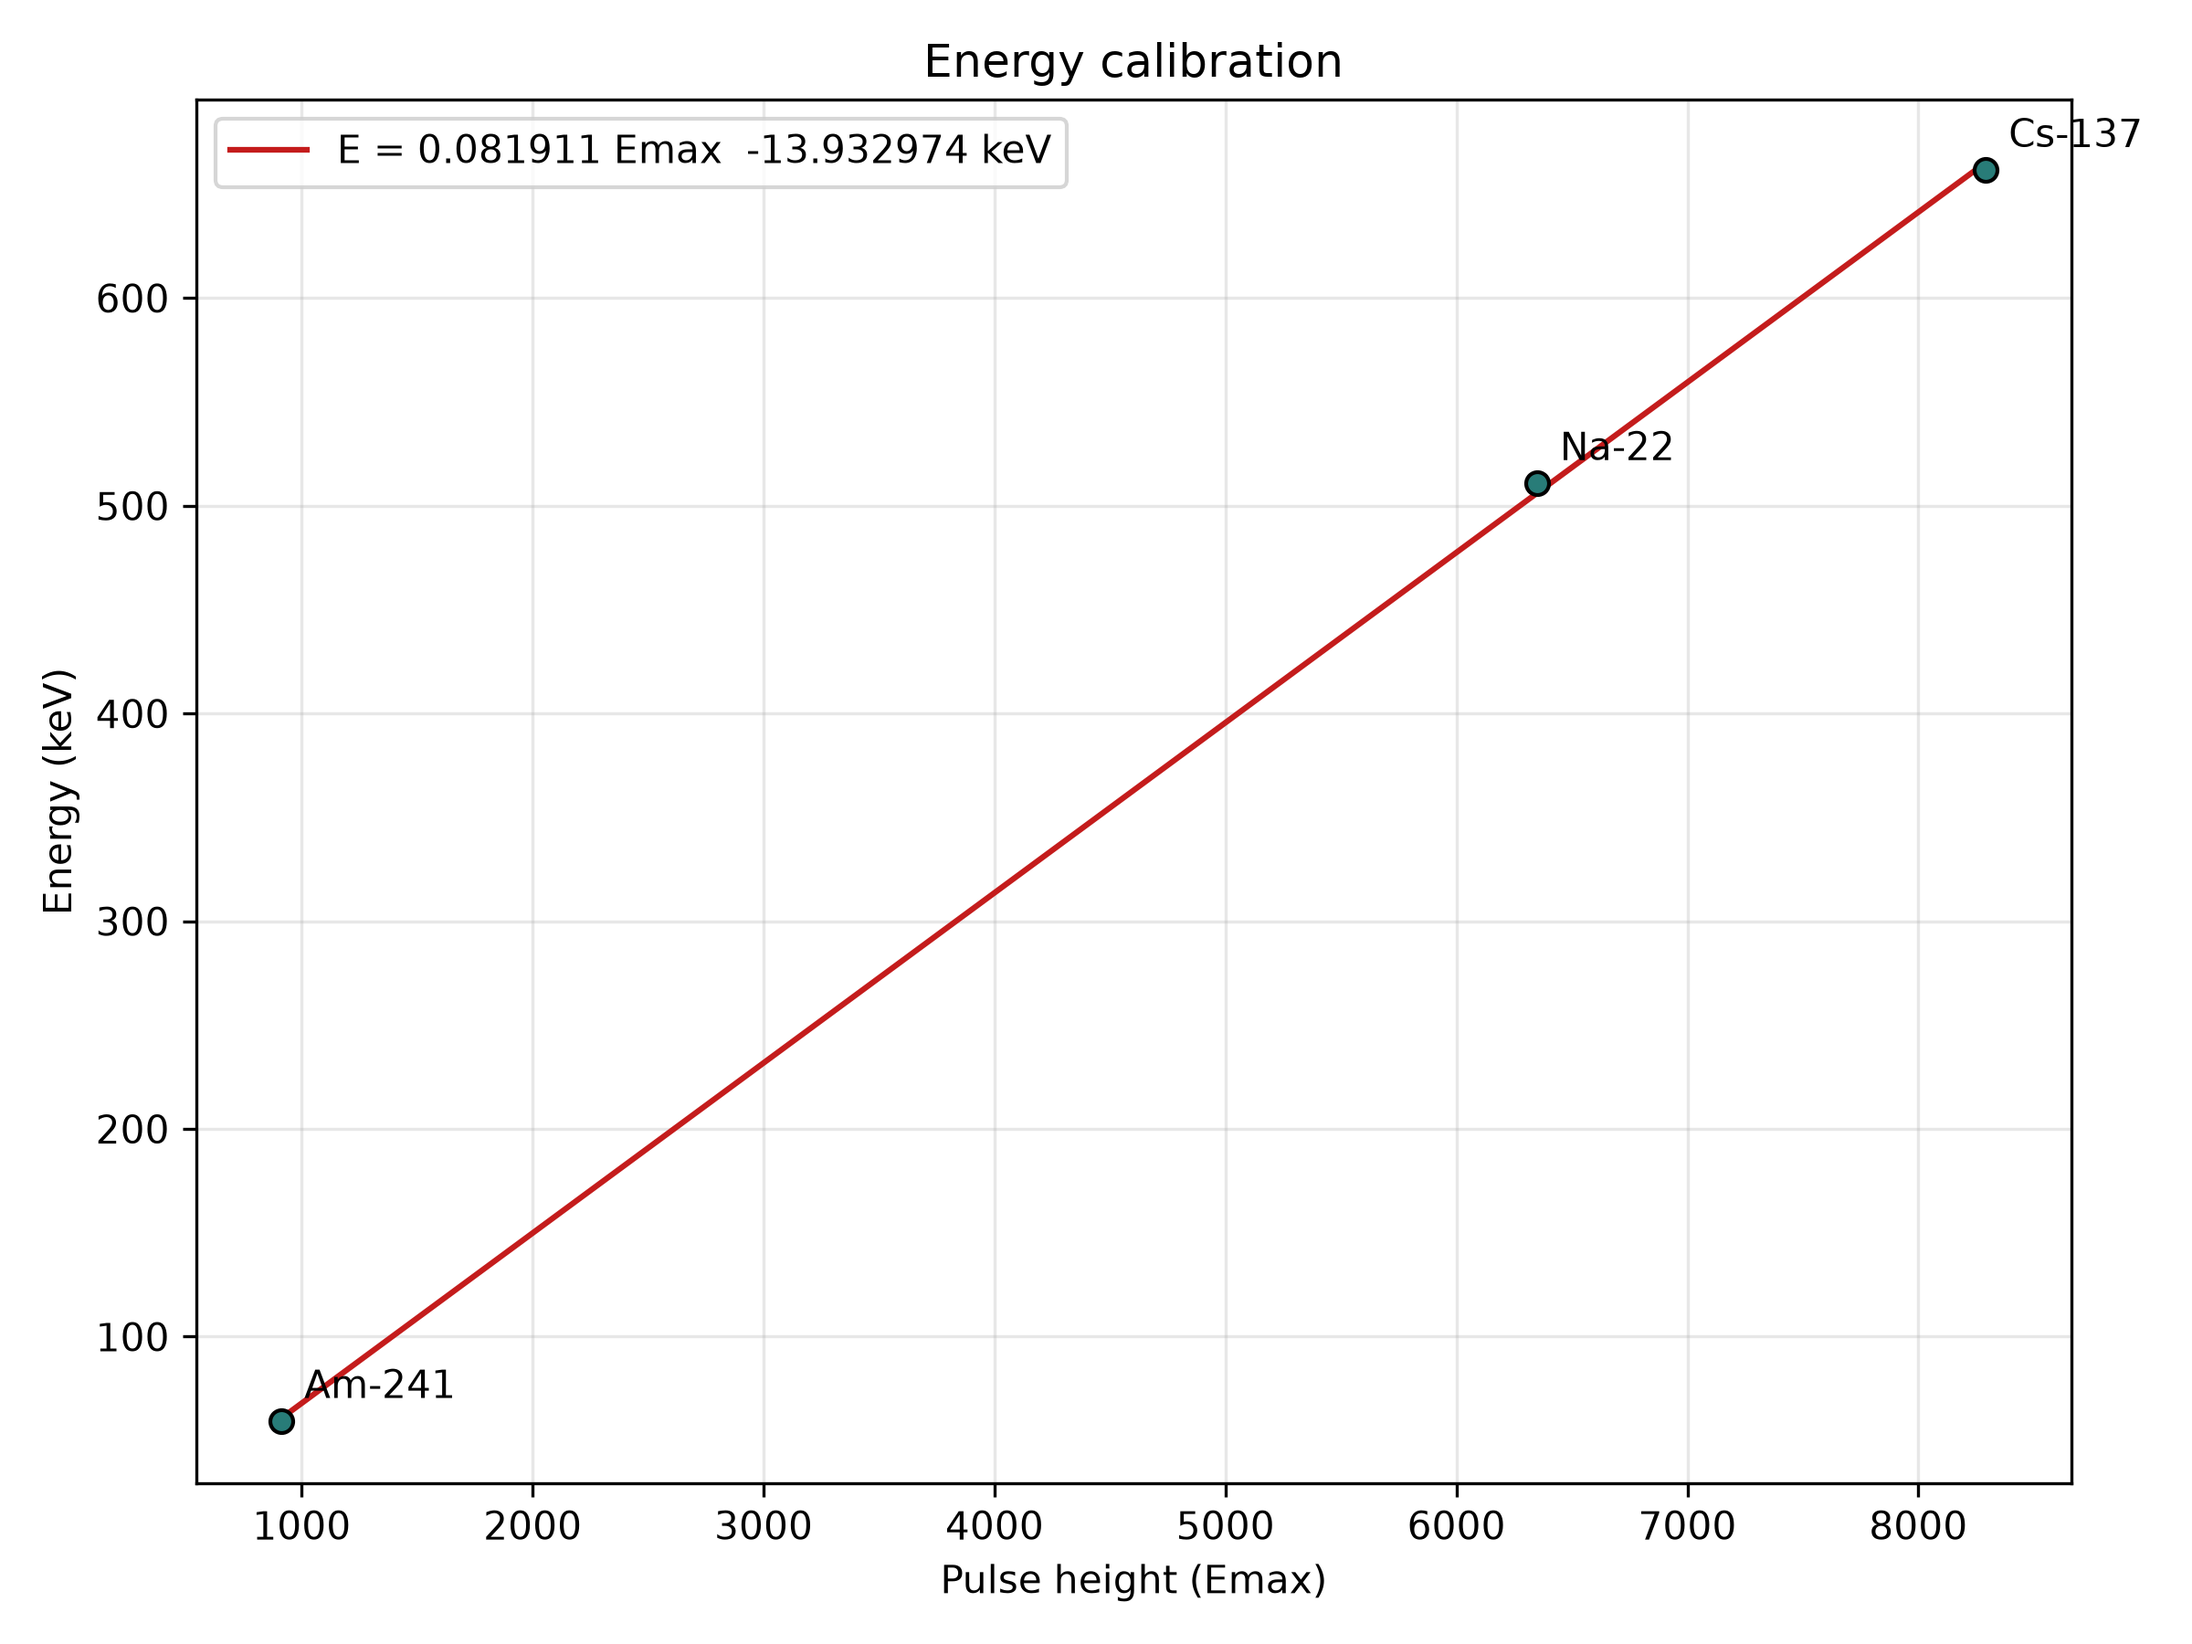
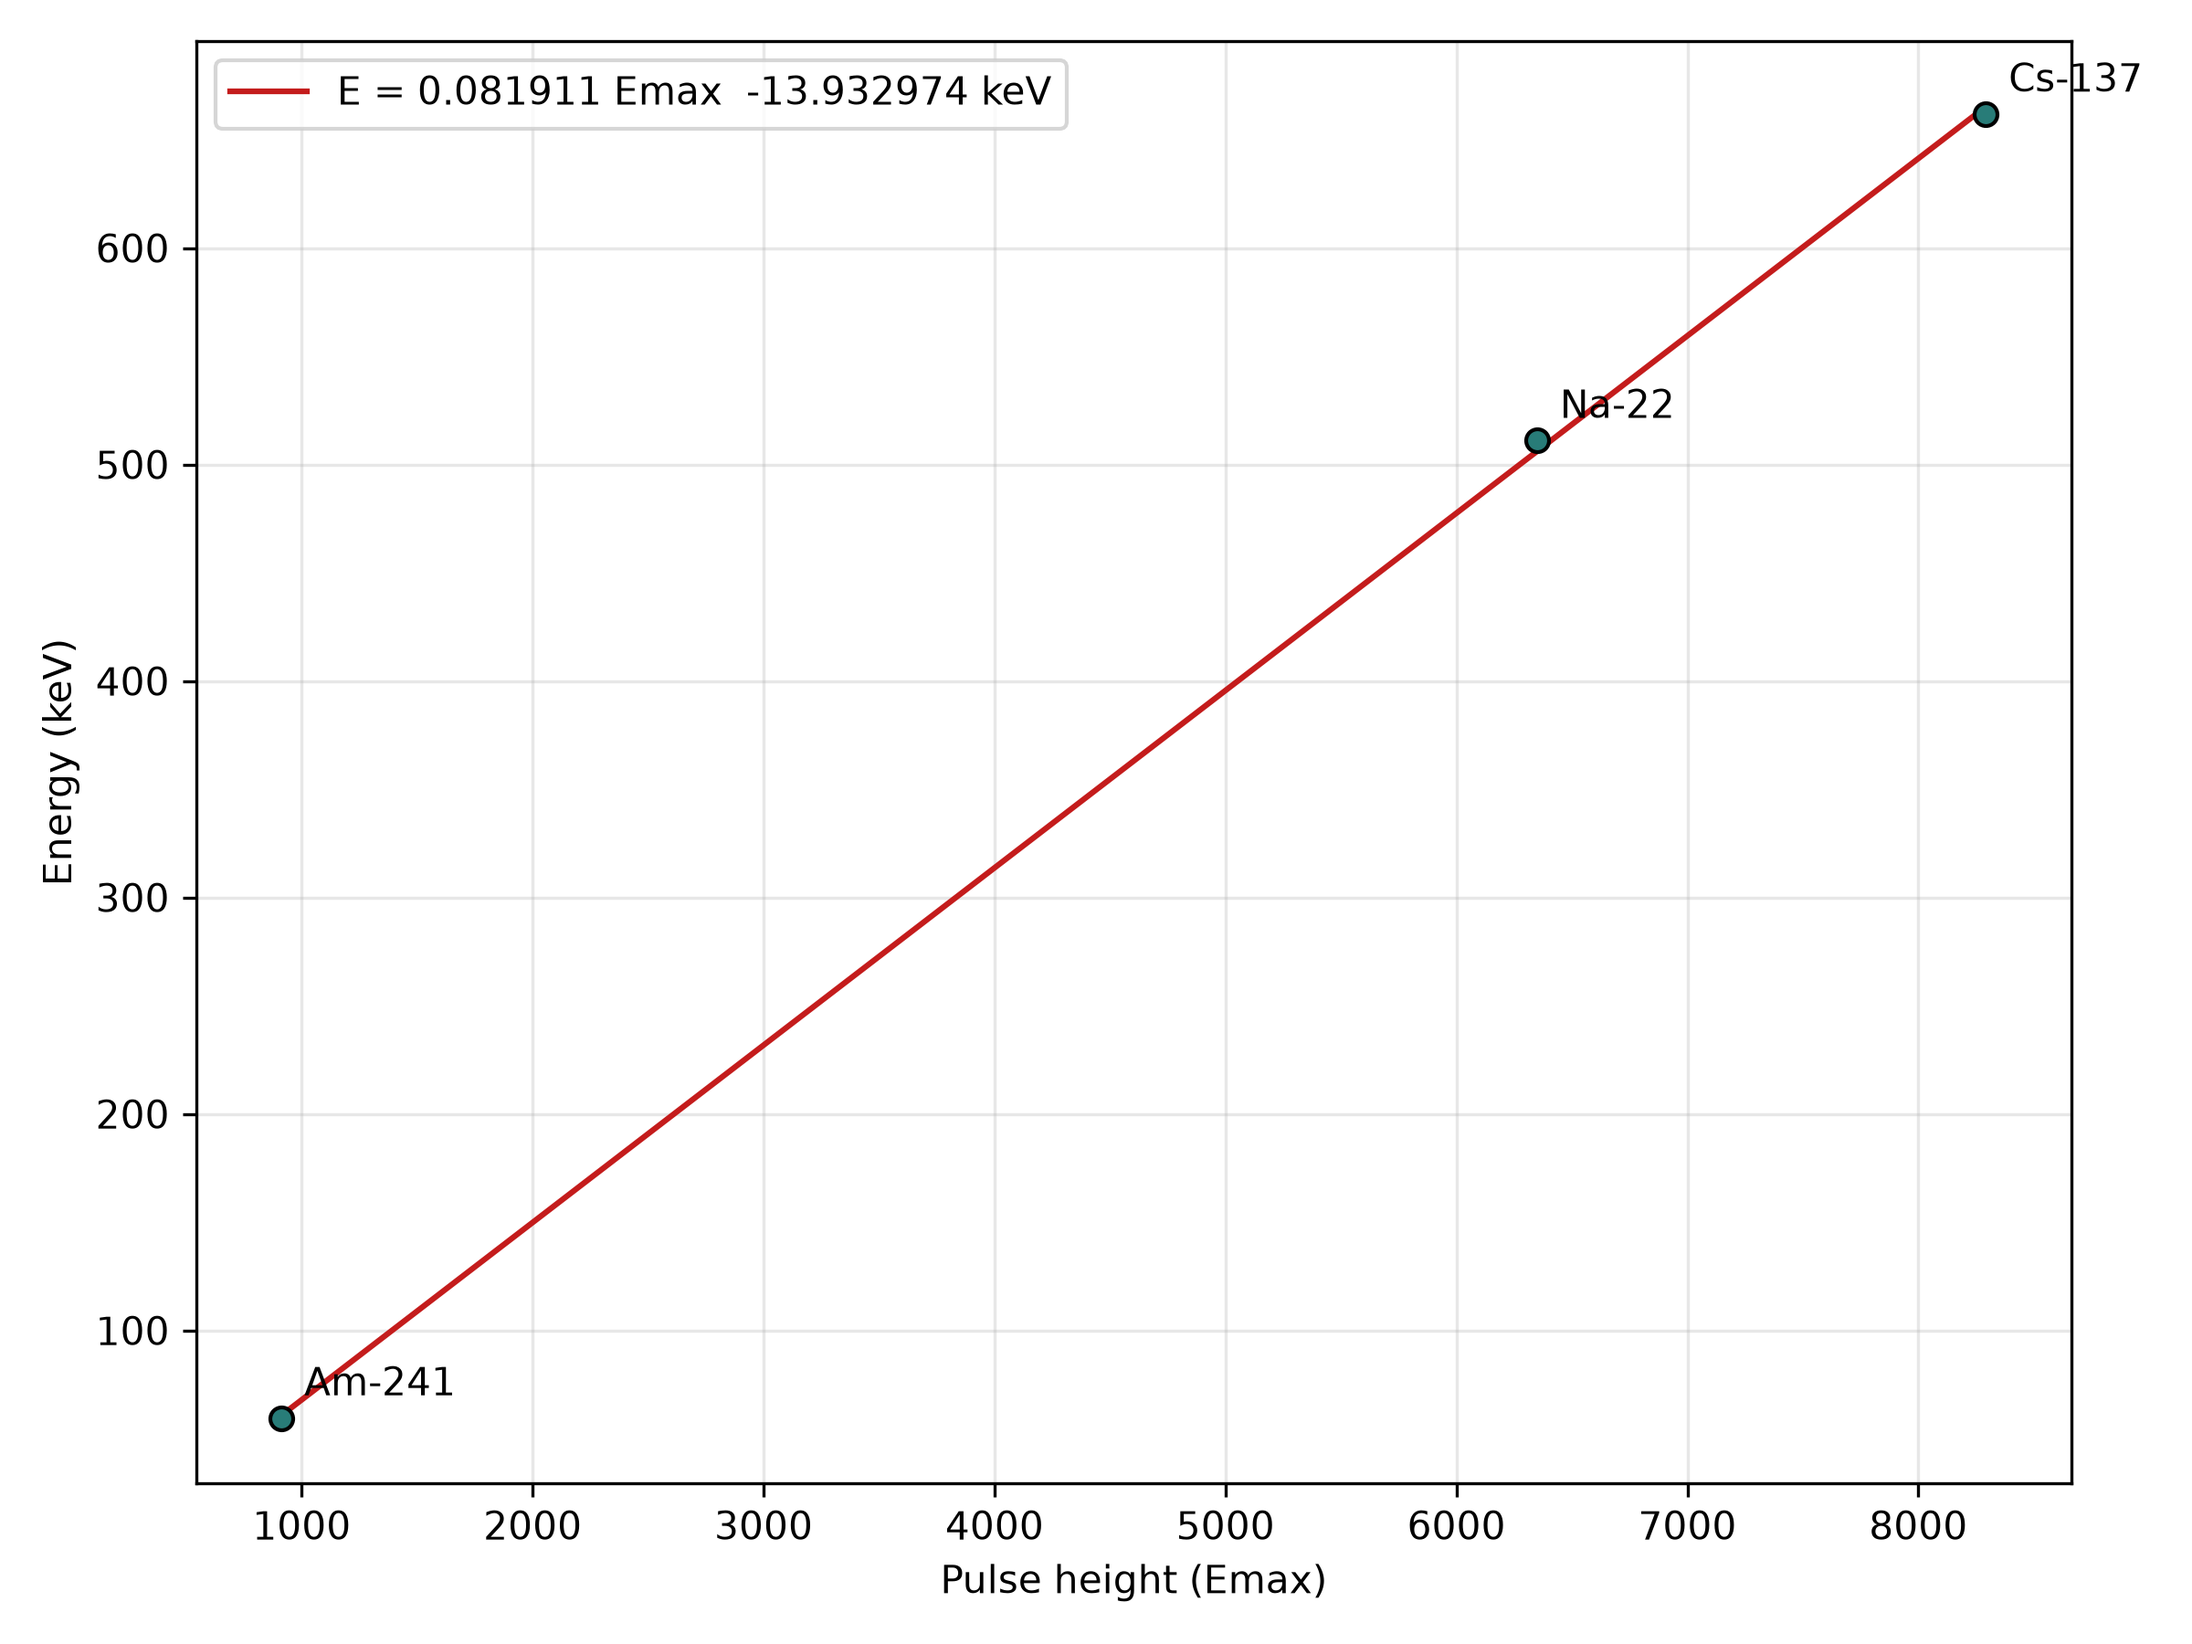
fin?

diff --git a/2026uni/Lab4.py b/2026uni/Lab4.py
@@ -118,7 +118,6 @@ line_y = [a * pulse_height + b for pulse_height in line_x]
 plt.plot(line_x, line_y, color="#c41c1c", label=f"E = {a:.6f} Emax  {b:.6f} keV")
 plt.xlabel("Pulse height (Emax)")
 plt.ylabel("Energy (keV)")
-plt.title("Energy calibration")
 plt.grid(True, alpha=0.3)
 plt.legend()
 plt.tight_layout()
@@ -388,20 +387,17 @@ angles = [10, 20, 30, 40, 60, 90, 120, 130]
 E_gamma = 661.7
 me_c_squared_keV = 511.0
 epsilon = E_gamma / me_c_squared_keV
-E_prime_gamma = [
-    E_gamma / (1 + epsilon * (1 - cos(radians(angle))))
-    for angle in angles
-]
+E_prime_gamma = [E_gamma / (1 + epsilon * (1 - cos(radians(angle)))) for angle in angles]
 measured_peak_energies_keV = [a * pulse_height + b for pulse_height in E]
+energy_errors_keV = [5,9,10,11,9,6,3,2]
 print("Predicted E'gamma (keV):", E_prime_gamma)
 
 plt.figure(figsize=(8, 6))
-plt.scatter(
-    angles,
-    measured_peak_energies_keV,
+plt.errorbar(angles,measured_peak_energies_keV,xerr=2,yerr=energy_errors_keV or None,fmt="o",
     color="#287c78",
-    edgecolor="black",
-    label="Measured peak (calibrated)",
+    markeredgecolor="black",
+    capsize=4,
+    label="Μετρημένη τιμή (Cs)",
 )
 plt.scatter(
     angles,
@@ -409,16 +405,52 @@ plt.scatter(
     color="#c41c1c",
     marker="s",
     edgecolor="black",
-    label="Compton prediction",
+    label="Θεωρητική τιμή (Compton)",
 )
-plt.xlabel("Scattering angle (degrees)")
-plt.ylabel("Photon energy (keV)")
-plt.title("Compton-scattered photon energy by angle")
-plt.xticks(angles)
+plt.xlabel("Γωνιά Σκέδασης (degrees)")
+plt.ylabel("Ενέργεια φωτονείου (keV)")
+plt.ylim(0, 700)
+plt.xticks(range(0, 141, 10))
 plt.grid(True, alpha=0.3)
 plt.legend()
-plt.tight_layout()
 plt.savefig(Path(__file__).with_name("Lab4_peak_pulseheight_over_angle.png"), dpi=300)
+plt.show()
+
+Z=55
+r0 = 2.818e-15
+theoretical_angles = list(range(0, 151, 5))
+kn = []
+def calc_kn(angle):
+    return Z*r0**2 * (1/(1+epsilon*(1-cos(radians(angle)))))**2 * ((1 + cos(radians(angle))**2)/2) * (1+(epsilon**2 * (1-cos(radians(angle)))**2)/(1+cos(radians(angle))**2)*(1+epsilon*(1-cos(radians(angle)))))
+for angle in theoretical_angles:
+    kn.append(calc_kn(angle)*10**29)
+print("kn (theoretical scattering cross-section):", kn)
+
+measurement_times_seconds = [500, 600, 600, 600, 600, 600, 600, 600]
+count_rates = []
+for measurement_file, measurement_time in zip(
+    angle_measurement_files, measurement_times_seconds):
+    total_counts = 0
+    with Path(__file__).with_name(measurement_file).open() as f:
+        for line in f:
+            parts = line.strip().split()
+            if len(parts) == 2:
+                total_counts += int(parts[1])
+    count_rates.append(total_counts / measurement_time)
+
+print("I_theta (counts per second):", count_rates)
+plt.figure(figsize=(8, 6))
+plt.scatter(angles, count_rates, color="#287c78", edgecolor="black", label="Μετρημένη τιμή (Cs)")
+plt.errorbar(angles, count_rates, xerr=2,yerr=None, markeredgecolor="black",fmt="o", capsize=4)
+plt.plot(theoretical_angles, kn, color="#c41c1c", label="Klein-Nishina")
+plt.ylabel("Αριθμός Μετρήσεων ανα δευτερόλεπτο (counts/s)")
+plt.xlabel("Γωνιά Σκέδασης (degrees)")
+plt.ylim(0,60)
+plt.xlim(0, 150)
+plt.xticks(range(0, 151, 10))
+plt.grid(True, alpha=0.3)
+plt.legend()
+plt.savefig(Path(__file__).with_name("Lab4_count_rate_over_angle.png"), dpi=300)
 plt.show()
 
 
